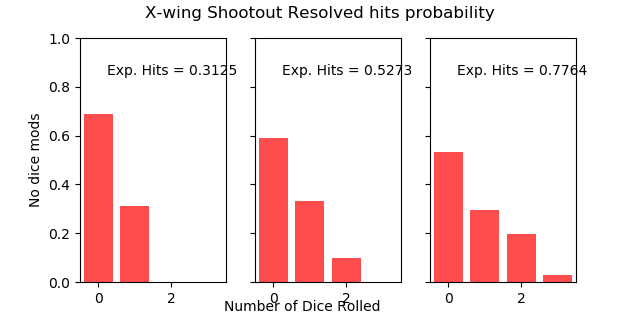
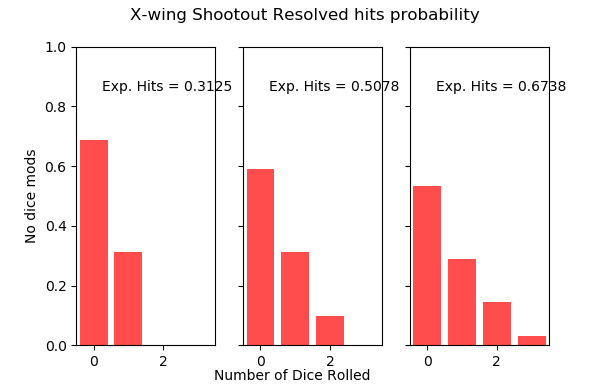
fixed a bug in the resolve calcs

diff --git a/Dice.py b/Dice.py
@@ -323,12 +323,12 @@ def P_resolved_hits(M, N, atk_f = False, atk_tl = False, def_f = False, def_num_
             #   P(h = 1) = ph[0]*pe[1] + ph[1]*pe[2] + ph[2]*pe[3]
             #   P(h = 0) = P(h = 3)P(e >= 3) + P(h = 2)P(e >= 2) + P(h = 1)P(e >= 1) + P(h = 0)P(e >= 0)
         
-        print('hits = ', h, ". num attack dice =", m, ". num def dice = ", n)
+        print("### num attack dice =", m, ". num def dice = ", n, 'hits = ', h, )
         p_holder = 0
         #evade array is in order N to 0 evades, so 0 evades is the last elem.
         #go from M-h away from the end to the end
         if (h != 0):
-            for i, j in zip(range(m, h-1, -1), range(n, h-1, -1)):
+            for i, j in zip(range(m, h-1, -1), range(h, n+1)):
                 # print('i = ', i, 'j = ', j)
                 print('ph elem = ', m-i, 'pe elem = ', j)
                 p_holder = ph[m-i]*(pe[j]) + p_holder
